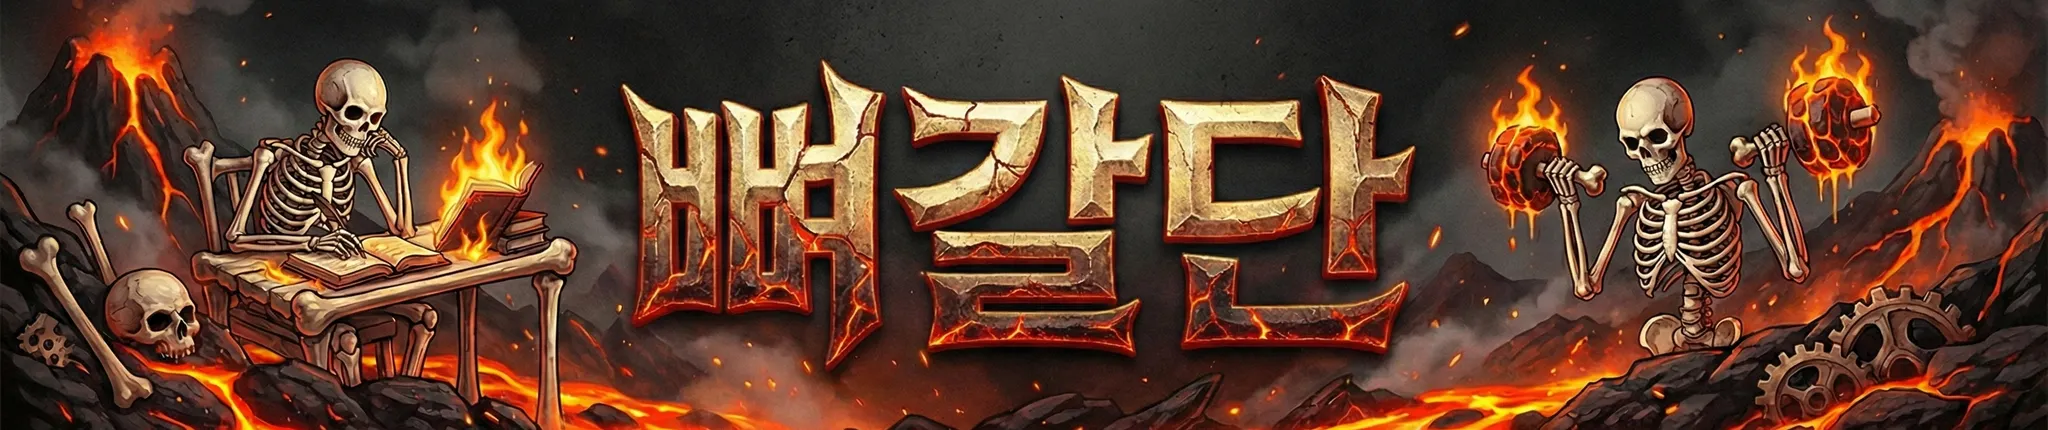
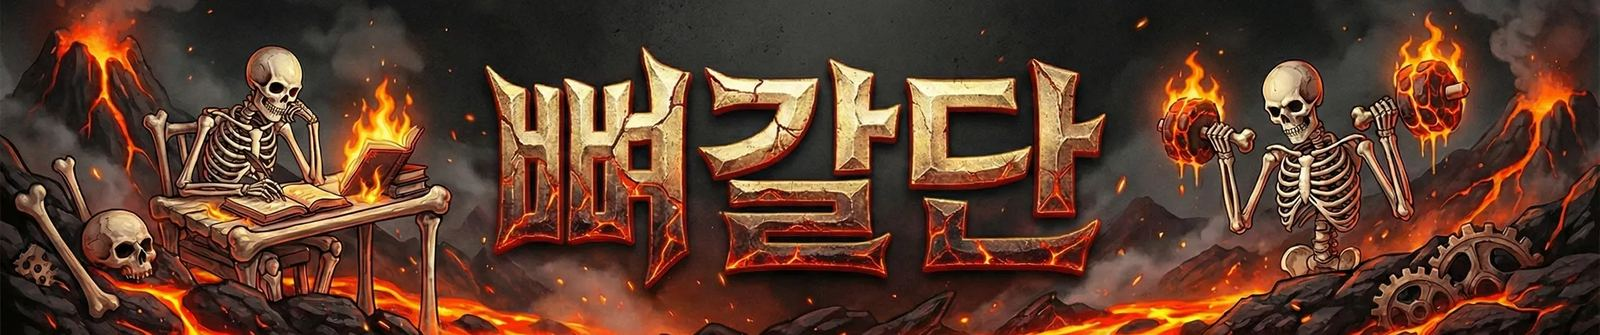
초기 로딩 속도 개선: 배너 이미지 최적화 + 로컬 캐시 유지
- banner.jpg 2MB → 117KB로 압축, WebP 버전 추가 (picture 태그로 제공)
- 이미지에 width/height, fetchpriority, decoding 속성 추가로 렌더링 성능 개선
- 데이터 캐시를 sessionStorage → localStorage로 변경해 재방문 시 즉시 렌더링

Changed region(s): [[0.125, 0.2985, 0.1875, 0.3881], [0.1562, 0.5373, 0.2188, 0.597], [0.1875, 0.597, 0.2188, 0.6269]]

diff --git a/index.html b/index.html
@@ -587,7 +587,10 @@
 </head>
 <body>
 
-<img src="images/banner.jpg" alt="뼈갈단 배너" class="banner" onerror="this.style.display='none'">
+<picture>
+    <source srcset="images/banner.webp" type="image/webp">
+    <img src="images/banner.jpg" alt="뼈갈단 배너" class="banner" width="1600" height="335" fetchpriority="high" decoding="async" onerror="this.style.display='none'">
+</picture>
 
 <div id="loadingMsg" class="loading-overlay">
     <div class="loading-spinner"></div>
@@ -1037,10 +1040,11 @@
     function loadData(forceRefresh, silent) {
         const loadingEl = document.getElementById('loadingMsg');
         if(typeof SCRIPT_URL === 'undefined' || SCRIPT_URL.includes("여기에")) { loadingEl.style.display='none'; alert("스크립트 주소를 넣어주세요!"); return; }
-        if (forceRefresh) sessionStorage.removeItem('bs_cache');
+        if (forceRefresh) localStorage.removeItem('bs_cache');
         // 캐시된 데이터가 있으면 즉시 렌더링 (GAS 응답 전에 UI 표시)
+        // localStorage 사용: 브라우저를 껐다 켜도 캐시 유지 → 재방문 시에도 즉시 표시
         // silent 모드(당겨서 새로고침)에서는 오버레이 없이 기존 화면 유지
-        const cached = sessionStorage.getItem('bs_cache');
+        const cached = localStorage.getItem('bs_cache');
         if (cached) {
             try { _applyData(JSON.parse(cached), false); } catch(e) {}
         } else if (!silent) {
@@ -1049,7 +1053,7 @@
         return fetch(SCRIPT_URL + "?action=getAllData")
             .then(response => response.json())
             .then(data => {
-                sessionStorage.setItem('bs_cache', JSON.stringify(data));
+                localStorage.setItem('bs_cache', JSON.stringify(data));
                 _applyData(data, true);
                 loadingEl.style.display = 'none';
             })
